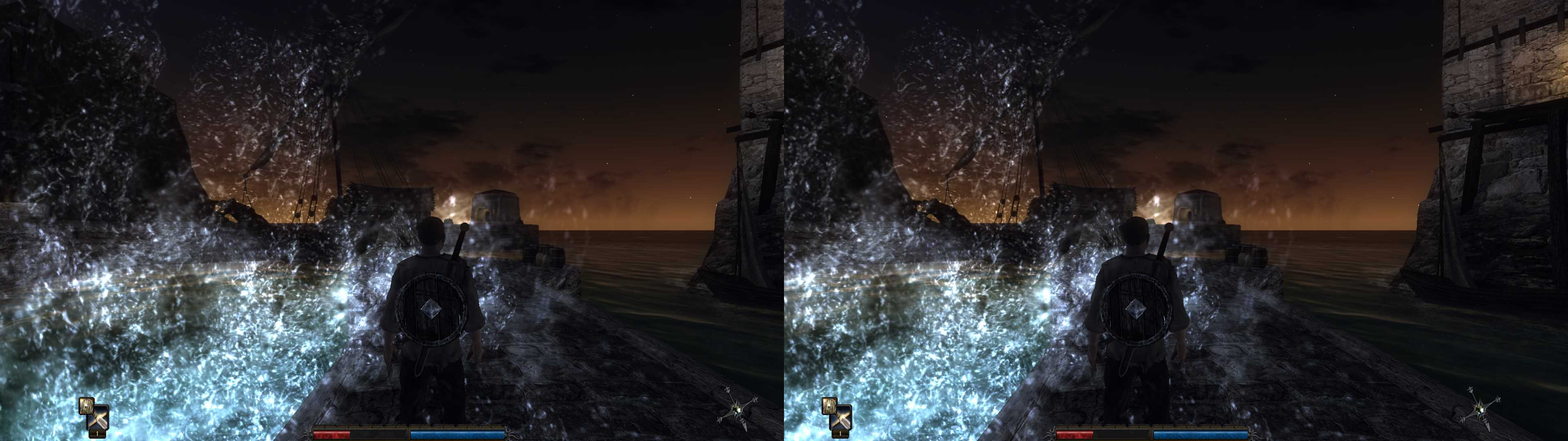
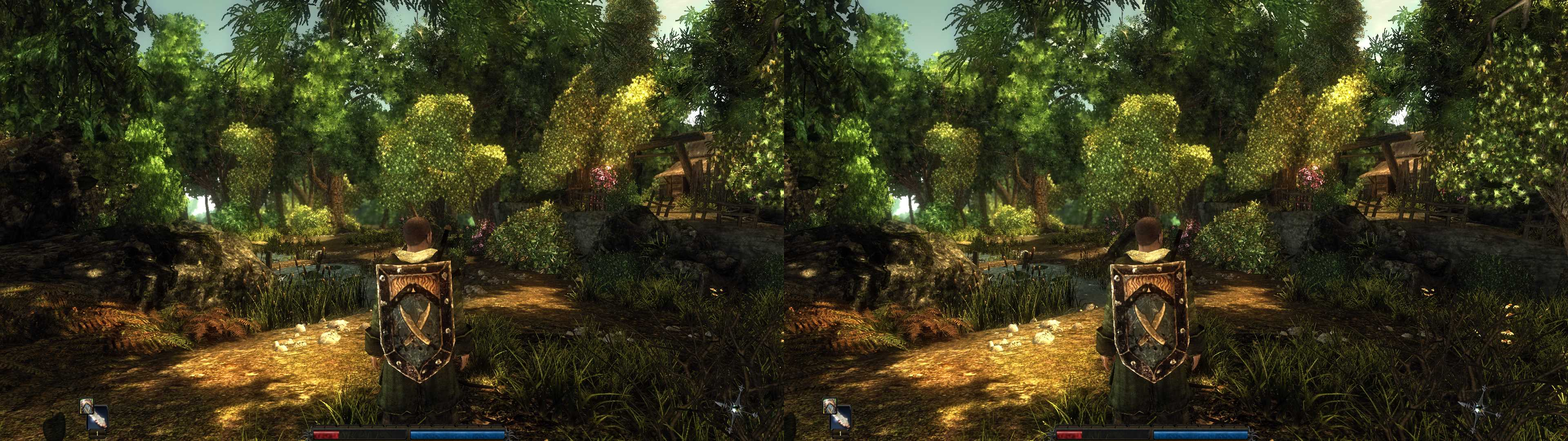
Disabled torch shadows, changed convergence in profiles

diff --git a/Risen/README.md b/Risen/README.md
@@ -18,8 +18,11 @@ This fix has two presets for the HUD settings which can be selected with the num
 
 #####Known issues:
 - Loading screens have red bars on the lief and right side.
+  Look into the _unfixed folder on git if you like to try fixing it.
+- Torch shadows are disabled - this should not be too bad as only the players torch casts shadows at all.
 
 #####Changelog:
+- v1.2: Disabled torch shadow due to problems at high convergence, updated screenshots
 - v1.1: Shadows are now working with any convergence
 - v1.0: initial release
 
